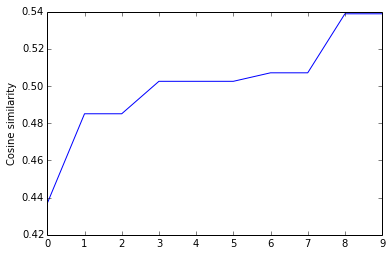
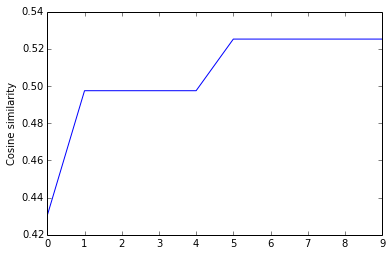
Final

diff --git a/Final_Project.py b/Final_Project.py
@@ -115,7 +115,7 @@ print ("\ny:\n%s\n%s" % (" ".join([index_to_word[x] for x in y_example]), y_exam
 
 # Run the model with gradientcheck using the GPU
 model = RNNTheano(vocabulary_size, hidden_dim=200)
-#gradient_check_theano(model, [0,1,2,3], [1,2,3,4])
+gradient_check_theano(model, [0,1,2,3], [1,2,3,4])
 
 # Re-Create model parameteres - alreday done
 #train_with_sgd(model, X_train, y_train, nepoch=_NEPOCH, learning_rate=_LEARNING_RATE)

diff --git a/PhishRNN.md b/PhishRNN.md
@@ -319,19 +319,16 @@ load_model_parameters_theano('./data/rnn-theano-200-867-2016-09-13-19-28-06.npz'
     Performing gradient check for parameter U with size 173400.
     Gradient check for parameter U passed.
     Performing gradient check for parameter V with size 173400.
-    Gradient Check ERROR: parameter=V ix=(590, 51)
-    +h Loss: 27.089568
-    -h Loss: 27.089568
-    Estimated_gradient: -0.000000
-    Backpropagation gradient: -0.000000
-    Relative Error: 0.022393
+    Gradient check for parameter V passed.
+    Performing gradient check for parameter W with size 40000.
+    Gradient check for parameter W passed.
     Loaded model parameters from ./data/rnn-theano-200-867-2016-09-13-19-28-06.npz. hidden_dim=200 word_dim=867
 
 
 
 ```python
 num_sentences = 10
-senten_min_length = 25
+senten_min_length = 22
 string = 'show: '
 new_sentences = []
 for i in range(num_sentences):
@@ -345,25 +342,25 @@ for i in range(num_sentences):
 ```
 
     show: 1
-    S1, You Ain't Goin' Nowhere, Wilson, Silent in the Morning, David Bowie, Llama, Memories, Amazing Grace, Cavern, My Favorite Things, Stash, Cavern, Dec 1661, Driver, No Quarter, ENCORE, Sleeping Monkey, Llama, Roll in My Sweet Baby's Arms, Emotional Rescue, Tower Jam, Character Zero, Hold Your Head Up, Possum, END
+    S1, Take the 'A' Train, Dog Faced Boy, You Enjoy Myself, The Squirming Coil, Art Jam, Big Pimpin', Meatstick, Golgi Apparatus, Love You, Sleeping Monkey, The Fog That Surrounds, S3, Tweezer Reprise, ENCORE, Run Like an Antelope, ENCORE, Funky Bitch, Foreplay/Long Time, Feel the Heat, The Squirming Coil, Caravan, Run Like an Antelope, ENCORE, Tubthumping, Frankenstein, END
     show: 2
-    S1, Family Picture, I Didn't Know, Good Times Bad Times, Good Times Bad Times, Taste, Melt the Guns, Willin', Good Times Bad Times, The Star Spangled Banner, The Squirming Coil, I Don't Care, ENCORE, Uncle Pen, Look Out Cleveland, Cavern, Four Strong Winds, Possum, ENCORE, Frankenstein, Sweet Adeline, Sweet Adeline, Guyute, Poor Heart, Free Bird, END
+    S1, The Sloth, You Enjoy Myself, First Tube, My Soul, Runaway Jim, Dave's Energy Guide, Self, Rocky Top, Alumni Blues, Sweet Adeline, American Woman, The Oh Kee Pa Ceremony, Amazing Grace, Timber, Watcher of the Skies, Fluffhead, ENCORE, Highway to Hell, Cavern, Sweet Adeline, David Bowie, Cavern, Mean Mr. Mustard, ENCORE, Golgi Apparatus, END
     show: 3
-    S1, David Bowie, Family Picture, Dog Faced Boy, Contact, Wildwood Weed, Twenty Years Later, If I Only Had a Brain, Messin' with The Kid, AC/DC Bag, AC/DC Bag, First Tube, Camel Walk, Sleeping Monkey, Billy Breathes, Joy, Piggies, Amazing Grace, Carini, Alumni Blues, Nellie Kane, Crosseyed and Painless, You Better Believe It Baby, Good Times Bad Times, ENCORE, Ginseng Sullivan, Tweezer Reprise, END
+    S1, Jam, Divided Sky, David Bowie, You Shook Me All Night Long, Nine Years (and One Dark Day), Bittersweet Motel, Harry Hood, Contact, Golgi Apparatus, Bathtub Gin, I Gave My Love a Cherry, Amazing Grace, Reba, Bittersweet Motel, Jam, Waste, Possum, Timber (Jerry), ENCORE, Golgi Apparatus, Rocky Top, END
     show: 4
-    S1, Slave to the Traffic Light, When the Cactus is in Bloom, Skin It Back, The Squirming Coil, Silent in the Morning, Llama, The Inlaw Josie Wales, Lengthwise, Golgi Apparatus, Roll Like a Cantaloupe, The Ballad of Curtis Loew, You Enjoy Myself, Piper, Suzy Greenberg, Jam, Split Open and Melt, Fluffhead, The Squirming Coil, Halley's Comet, ENCORE, The Oh Kee Pa Ceremony, Suzy Greenberg, ENCORE, Sweet Adeline, Whipping Post, END
+    S1, Brain Damage, I Didn't Know, Bertha, Llama, Split Open and Melt, Eliza, Rift, Llama, Harry Hood, Slipknot!, In the Aeroplane Over the Sea, Highway to Hell, Reba, Wilson, Demand, Character Zero, ENCORE, Gloria, Reba, Fire, END
     show: 5
-    S1, No Reply At All, Dog Faced Boy, Chalk Dust Torture, You Enjoy Myself, Contact, Fluffhead, ENCORE, Suzy Greenberg, Rocky Top, Jam, I Don't Care, Good Times Bad Times, ENCORE, Contact, Sparkle, Bill Bailey, Harry Hood, Loup Garou, Gotta Jibboo, You Enjoy Myself, Hold Your Head Up, Slave to the Traffic Light, ENCORE, Rock and Roll, Good Times Bad Times, END
+    S1, The Star Spangled Banner, Friday, Train Song, Possum, Terrapin Station, Amazing Grace, Carolina, Funky Bitch, Sweet Adeline, Bill Bailey, Golgi Apparatus, Loving Cup, When the Circus Comes, Sailin' Shoes, Bouncing Around the Room, Runaway Jim, You Enjoy Myself, Alumni Blues, Run Like an Antelope, ENCORE, Loving Cup, Tweezer Reprise, END
     show: 6
-    S1, Scarlet Begonias, Satin Doll, Ginseng Sullivan, The Squirming Coil, Taste, Sweet Adeline, Amazing Grace, AC/DC Bag, Gumbo, Amidst the Peals of Laughter, Blue Sky, David Bowie, S2, Sleep, Character Zero, My Mind's Got a Mind of its Own, Loving Cup, ENCORE, Boogie On Reggae Woman, Bug, Tweezer Reprise, ENCORE, Carolina, END
+    S1, Weekapaug Groove, The Moma Dance, Hold Your Head Up, Tweezer, I Am Hydrogen, Possum, Golgi Apparatus, Cavern, Cavern, Amazing Grace, Heavy Things, Weekapaug Groove, Sweet Adeline, Buried Alive, Run Like an Antelope, ENCORE, You Enjoy Myself, Stash, S4, Nellie Kane, Life on Mars?, ENCORE, Waste, Rocky Top, END
     show: 7
-    S1, Freeworld, Back Porch Boogie Blues, I Been to Georgia on a Fast Train, Runaway Jim, Walk Away, Llama, You Enjoy Myself, ENCORE, Contact, Bouncing Around the Room, Happy Birthday to You, Punch You In the Eye, Piper, Theme From the Bottom, Wipe Out, Cold Water, Wildwood Weed, Dust in the Wind, Fire, ENCORE, Sleeping Monkey, Buffalo Bill, Train Round the Bend, Iron Man, Good Times Bad Times, ENCORE, David Bowie, END
+    S1, Tweezer Reprise, Mike's Song, Party Time, The Asse Festival, Maze, Magilla, Sweet Adeline, Chalk Dust Torture, Harry Hood, S2, I Been to Georgia on a Fast Train, S4, Messin' with The Kid, Sand, Run Like an Antelope, ENCORE, Brian and Robert, Tweezer Reprise, ENCORE, Contact, END
     show: 8
-    S1, The Gambler, Run Like an Antelope, Chalk Dust Torture, S2, Guyute, Tweezer Reprise, Hello My Baby, I Am Hydrogen, Doin' My Time, Possum, Meatstick, Nellie Kane, The Sloth, To France, My Friend My Friend, Piggies, Suzy Greenberg, ENCORE, Goin' Down Slow, Cavern, Camel Walk, Uncle Pen, You Enjoy Myself, ENCORE, Sweet Adeline, Cavern, ENCORE, La Grange, END
+    S1, The Sloth, Dog Faced Boy, Mike's Song, Ginseng Sullivan, Maze, Sweet Adeline, Rocky Top, Runaway Jim, Theme From the Bottom, Nowhere Fast, A Day in the Life, La Grange, The Old Home Place, David Bowie, Free Bird, My Friend My Friend, Jam, Slave to the Traffic Light, ENCORE, Contact, Tweezer Reprise, END
     show: 9
-    S1, The Haunted House, Heavy Things, No Reply At All, Free Bird, Sparkle, Alumni Blues, Wild Honey Pie, Harry Hood, David Bowie, My Soul, To France, The Squirming Coil, Run Like an Antelope, ENCORE, The Squirming Coil, David Bowie, You Enjoy Myself, The Mango Song, Amazing Grace, Golgi Apparatus, Julius, ENCORE, Good Times Bad Times, END
+    S1, Messin' with The Kid, Chalk Dust Torture, Jam, If I Only Had a Brain, Uncle Pen, Highway to Hell, Free Bird, Whipping Post, Middle of the Road, Cool It Down, Tweezer Reprise, Tweezer Reprise, Cavern, Contact, Rocky Top, Sanity, Possum, ENCORE, Wilson, Amazing Grace, Colonel Forbin's Ascent, Carolina, Possum, ENCORE, Contact, END
     show: 10
-    S1, ENCORE, ENCORE, ENCORE, Runaway Jim, Ginseng Sullivan, Sweet Adeline, Hello My Baby, Suzy Greenberg, ENCORE, Happiness Is a Warm Gun, Memories, Sweet Adeline, Funky Bitch, Yerushalayim Shel Zahav, McGrupp and the Watchful Hosemasters, Amazing Grace, Cavern, Character Zero, ENCORE, Loving Cup, ENCORE, Sweet Adeline, Tweezer Reprise, END
+    S1, Flat Fee, Mike's Song, I Am Hydrogen, Runaway Jim, David Bowie, The Asse Festival, While My Guitar Gently Weeps, Amazing Grace, You Enjoy Myself, I Gave My Love a Cherry, Taste, Reba, The Sloth, Golgi Apparatus, The Last Step, My Funny Valentine, Run Like an Antelope, ENCORE, Also Sprach Zarathustra, It's Ice, Something, ENCORE, Carolina, END
 
 
 #### Similarity by Cosine
@@ -389,7 +386,7 @@ plt.ylabel('Cosine similarity')
 plt.show()
 ```
 
-    similarity average by cosine similarity:0.500653036531
+    similarity average by cosine similarity:0.504649961185
 
 
 
@@ -419,7 +416,7 @@ plt.ylabel('set similarity')
 plt.show()
 ```
 
-    similarity average by SET similarity:0.331097560976
+    similarity average by SET similarity:0.286054766734
 
 
 
@@ -439,8 +436,10 @@ plt.show()
     - We had excpectation that the model would realize the real construction of a show. As out of 1776 shows 1381 had at least two sets. A proper Second generated only once in a proper position. 
     - On the other hand, model learnd **very well** that ENCORE should be placed few words before end of a sentence, but it was still placed in strange positions. 
     - Most generated shows contains at least one obscured song which played by the band only during the 80's or early 90's and still it's in the same list with new songs the band is playing.
+    - Songs repeating in a show is not a rare thing. Sometimes the band plays sandwiches song. Example of a real show (27/7/2014 @ Columbia, MD):
+    > S1,Fee,The Curtain With,46 Days,555,My Sweet One,Sand,Bouncing Around the Room,Saw It Again,Fuego,You Enjoy Myself,S2,Wilson,Tweezer,Back on the Train,Tweezer,Back on the Train,Tweezer,Waiting All Night,Free,Tweezer,Simple,Tweezer,Free,Catapult,Slave to the Traffic Light,Down with Disease,NICU,Jam,Hold Your Head Up,Jennifer Dances,Hold Your Head Up,I Been Around,ENCORE,Boogie On Reggae Woman,Tweezer Reprise,END
 
 - Project was so much fun, We've enjoyed doing the while thing top to bottom. Going through old shows and find out about songs you never heard of is the biggest bonus of the while thing. 
 
     ![Phish @ San Francisco, CA. Taken By Ido July 2016](phish.png)
-                                    Phish @ San Francisco, CA. Taken By Ido July 2016
+                              Phish @ San Francisco, CA. Taken By Ido July 2016
